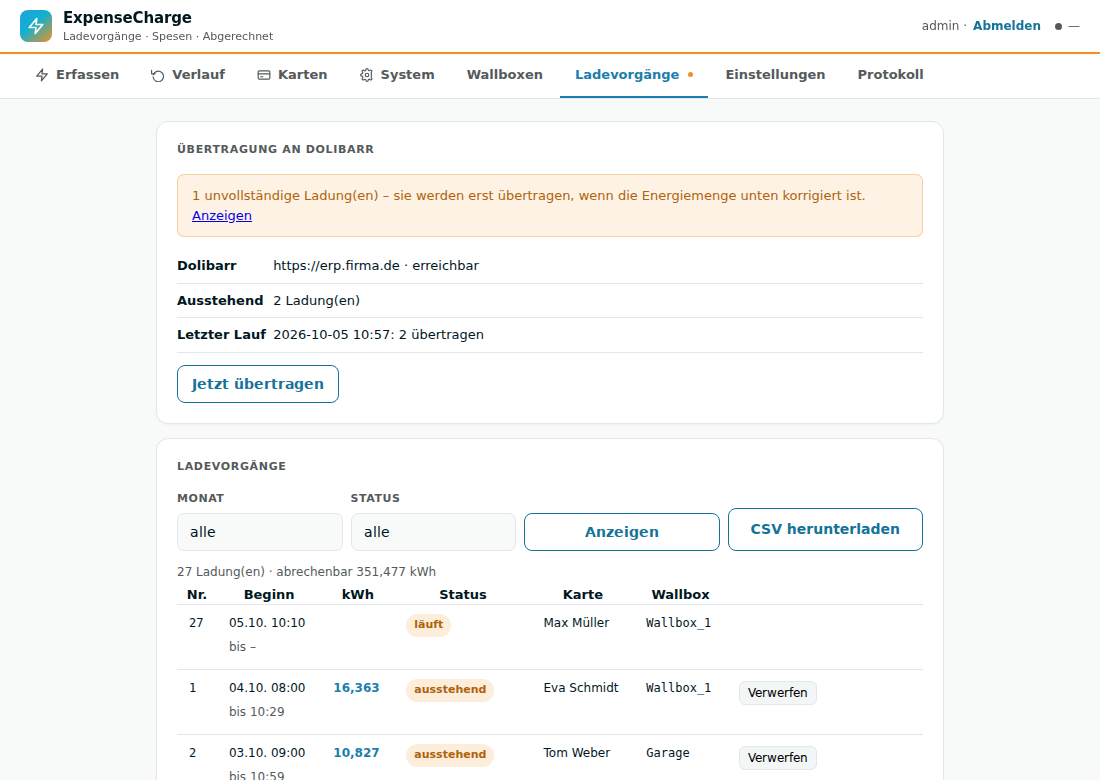
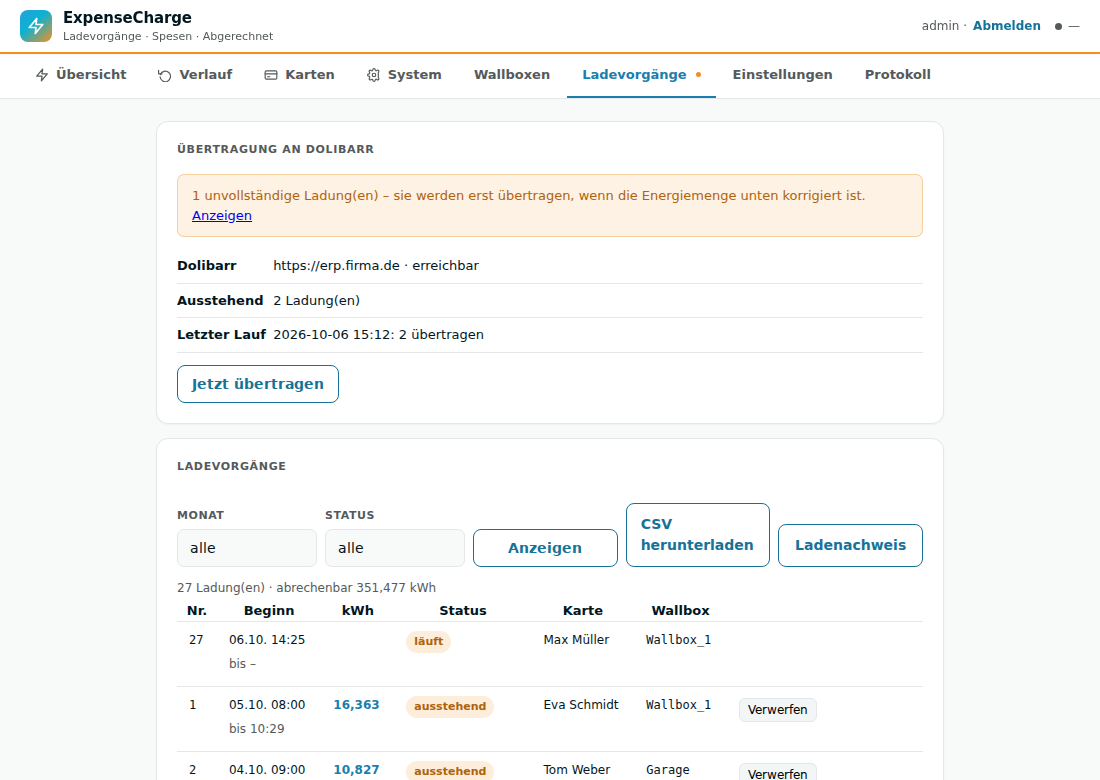
feat(ui): Wallbox-Zustand in Klartext; neue Screenshots; Version 2.3.0
„lädt“, „frei“, „Auto angesteckt“, „pausiert“, „Störung“ statt der OCPP-Wörter
(Liste, Detailseite, Live-Aktualisierung); kein „NoError“ mehr. README-
Screenshots zeigen die neue Oberfläche (Übersicht mit Ampel, Schnellaktionen).

diff --git a/wallbox-dolibarr/admin/wallboxes.py b/wallbox-dolibarr/admin/wallboxes.py
@@ -37,10 +37,12 @@ details.adv>summary{cursor:pointer;padding:12px 4px;color:var(--muted);font-size
 """
 
 _LIVE_JS = """<script>
+var DE={Available:'frei',Preparing:'Auto angesteckt',Charging:'lädt',SuspendedEV:'pausiert (Auto)',
+ SuspendedEVSE:'pausiert (Wallbox)',Finishing:'Ladung beendet',Reserved:'reserviert',Unavailable:'gesperrt',Faulted:'Störung'};
 setInterval(function(){fetch('/live.json').then(function(r){return r.json();}).then(function(d){
  (d.charge_points||[]).forEach(function(c){
   var el=document.querySelector('[data-cp="'+CSS.escape(c.id)+'"] .st'); if(!el) return;
-  el.textContent=(c.connected?'verbunden':'getrennt')+(c.status?' · '+c.status:'')+(c.last_seen?' · '+c.last_seen.replace('T',' '):'');
+  el.textContent=(c.connected?'verbunden':'getrennt')+(c.status?' · '+(DE[c.status]||c.status):'')+(c.last_seen?' · '+c.last_seen.replace('T',' '):'');
  });}).catch(function(){});},5000);
 </script>"""
 
@@ -121,6 +123,12 @@ COMMANDS = {
 }
 
 
+# OCPP-Zustand → Klartext
+STATUS_DE = {'Available': 'frei', 'Preparing': 'Auto angesteckt', 'Charging': 'lädt', 'SuspendedEV': 'pausiert (Auto)',
+             'SuspendedEVSE': 'pausiert (Wallbox)', 'Finishing': 'Ladung beendet', 'Reserved': 'reserviert',
+             'Unavailable': 'gesperrt', 'Faulted': 'Störung'}
+
+
 def _status_text(st: dict) -> str:
     if not st:
         return 'noch nie verbunden'
@@ -128,7 +136,7 @@ def _status_text(st: dict) -> str:
     main = connectors.get('1') or next(iter(connectors.values()), {})
     parts = ['verbunden' if st.get('connected') else 'getrennt']
     if main.get('status'):
-        parts.append(main['status'])
+        parts.append(STATUS_DE.get(main['status'], main['status']))
     if st.get('last_seen'):
         parts.append(st['last_seen'].replace('T', ' '))
     return ' · '.join(parts)
@@ -494,7 +502,8 @@ poll();}})();
                    '<div class="hint">Wird nur jetzt angezeigt – gleich in die Wallbox eintragen.</div>' if pw else
                    f'<div class="hint">Passwort: {_e(mask(c.get("password")))}</div>')
         conn_rows = ''.join(
-            f'<tr><td>{_e(n)}</td><td>{_e(x.get("status"))}</td><td>{_e(x.get("error_code"))}</td>'
+            f'<tr><td>{_e(n)}</td><td>{_e(STATUS_DE.get(x.get("status"), x.get("status")))}</td>'
+            f'<td>{_e("–" if x.get("error_code") in (None, "NoError") else x.get("error_code"))}</td>'
             f'<td>{_e(x.get("energy_kwh"))}</td><td>{_e(x.get("transaction_id") or "")}</td></tr>'
             for n, x in sorted((st.get('connectors') or {}).items()))
         device = ' '.join(x for x in (st.get('vendor'), st.get('model')) if x)

diff --git a/README.md b/README.md
@@ -9,7 +9,7 @@
 </p>
 
 <p align="center">
-  <img src="https://img.shields.io/badge/Addon-2.2.0-22c55e" alt="Addon 2.2.0">
+  <img src="https://img.shields.io/badge/Addon-2.3.0-22c55e" alt="Addon 2.3.0">
   <img src="https://img.shields.io/badge/Dolibarr--Modul-2.3.6-14b8a6" alt="Dolibarr-Modul 2.3.6">
   <img src="https://img.shields.io/badge/Dolibarr-20–22-0f766e" alt="Dolibarr 20–22">
   <img src="https://img.shields.io/badge/OCPP-1.6J-0e7490" alt="OCPP 1.6J">
